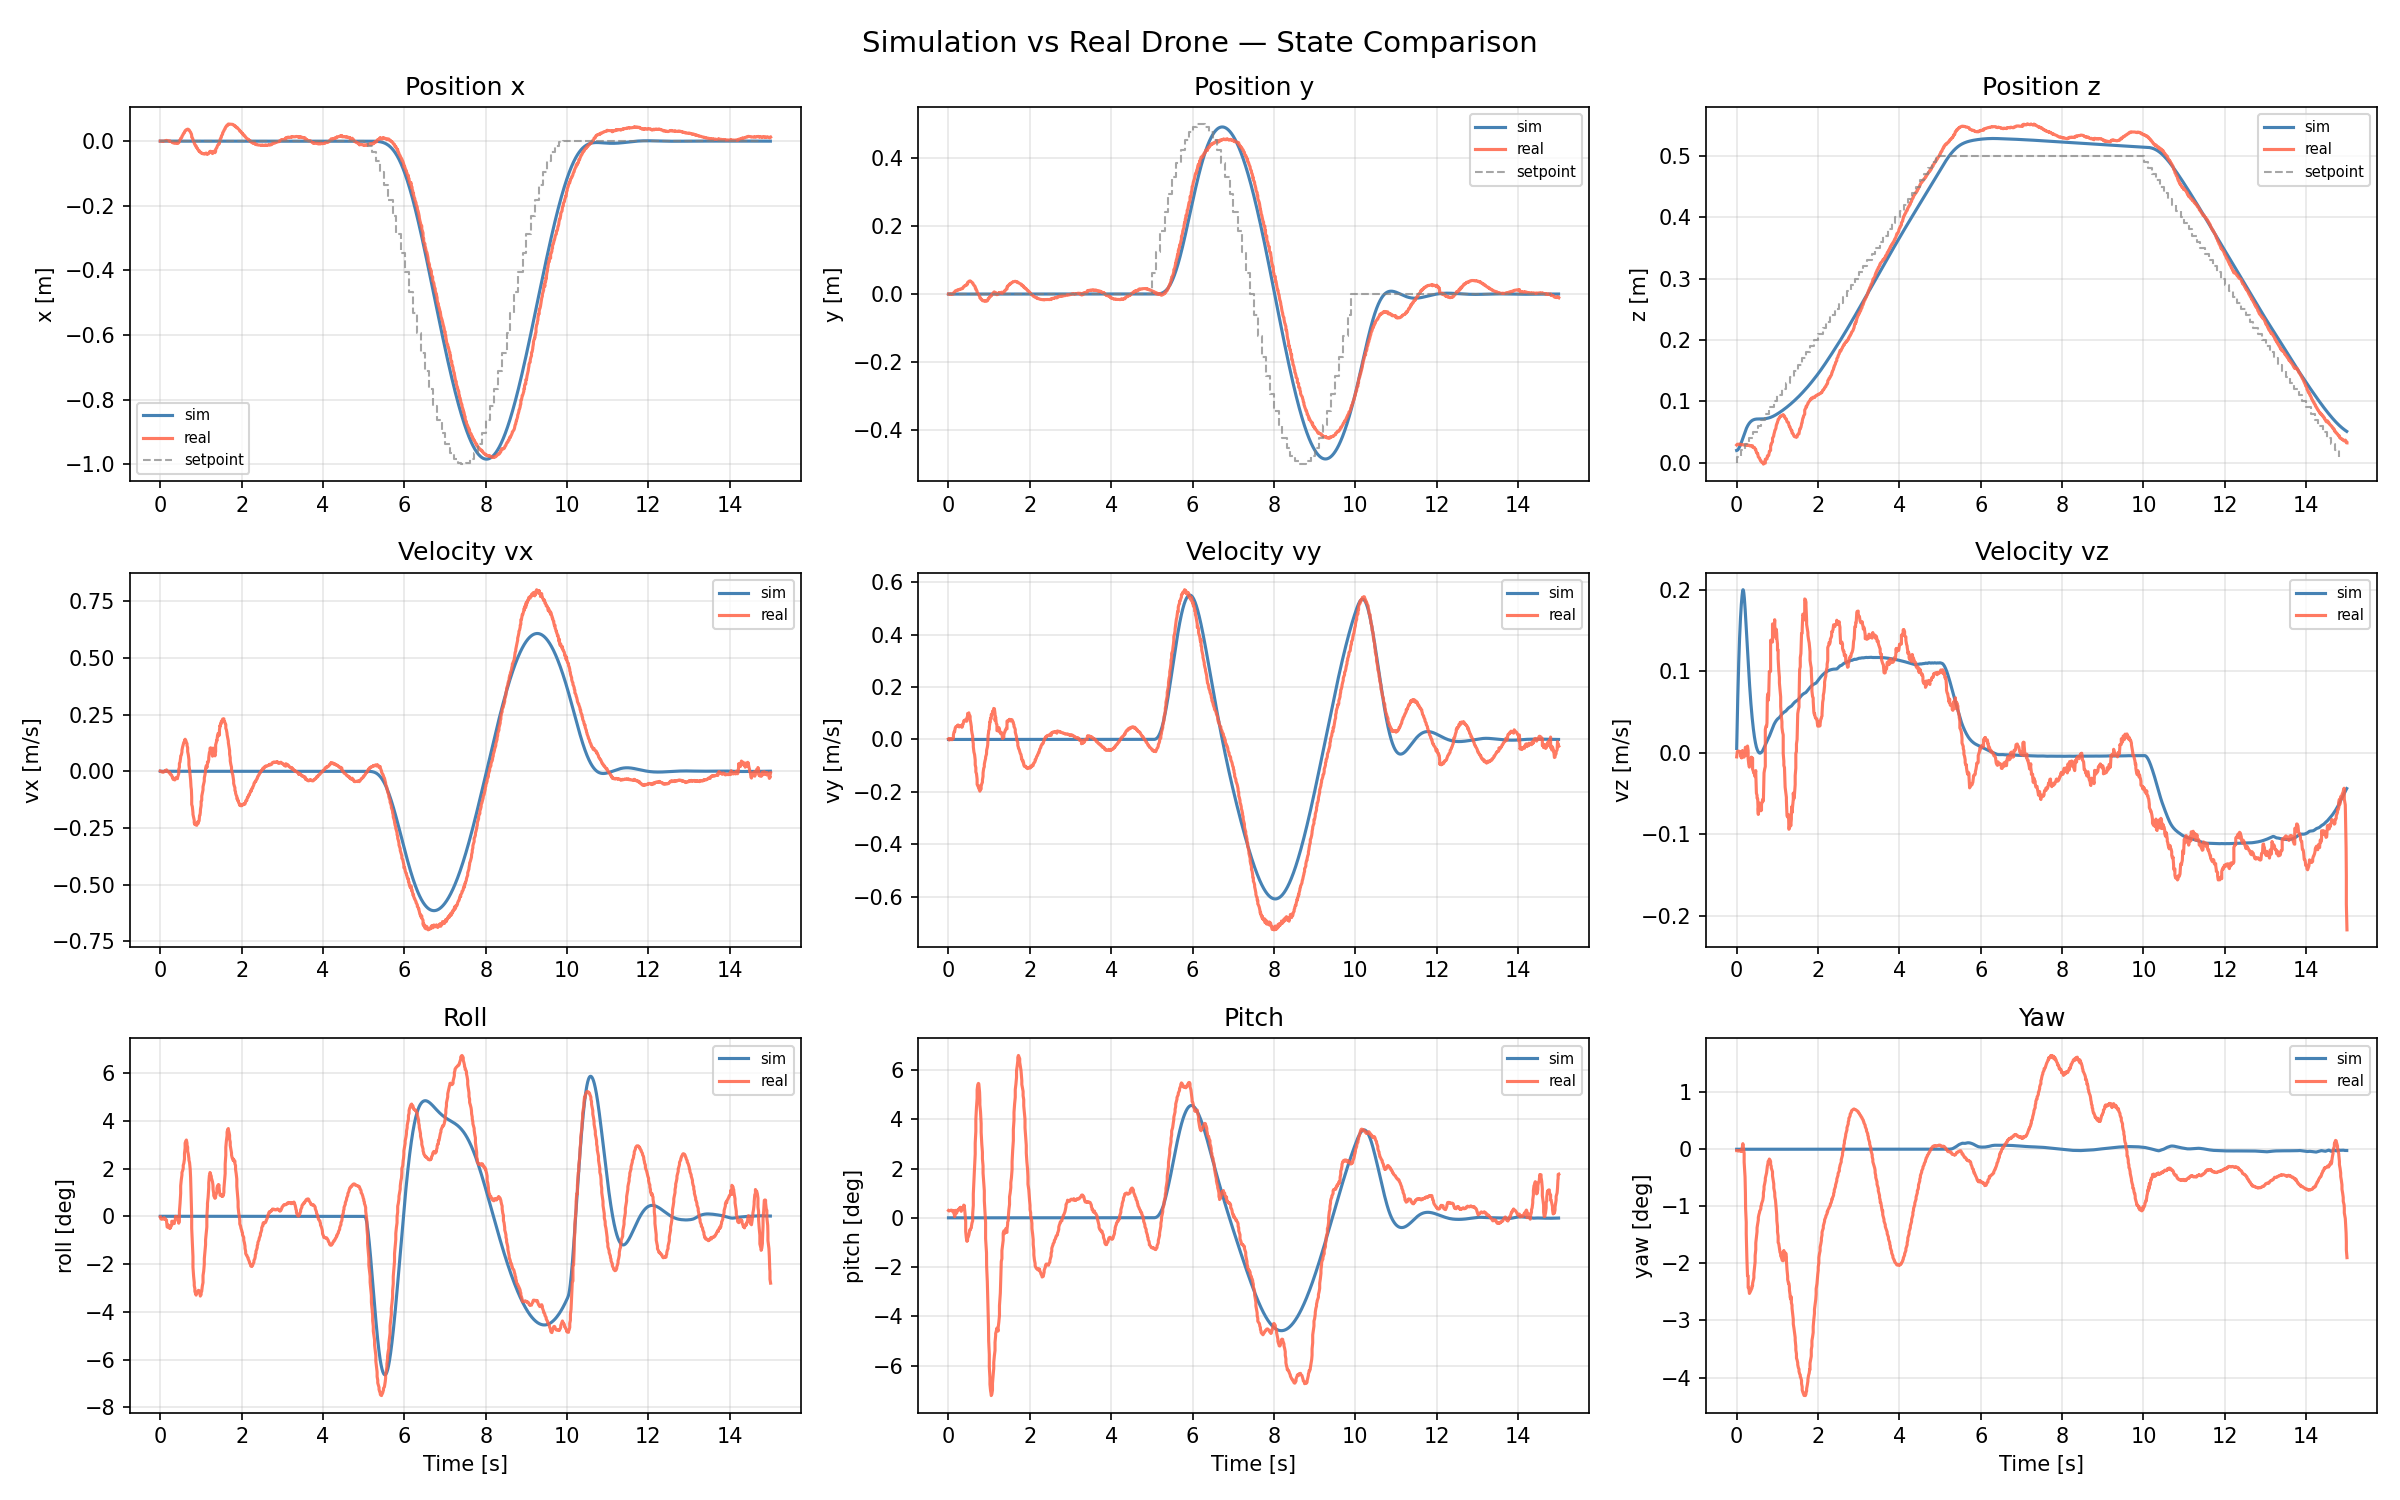
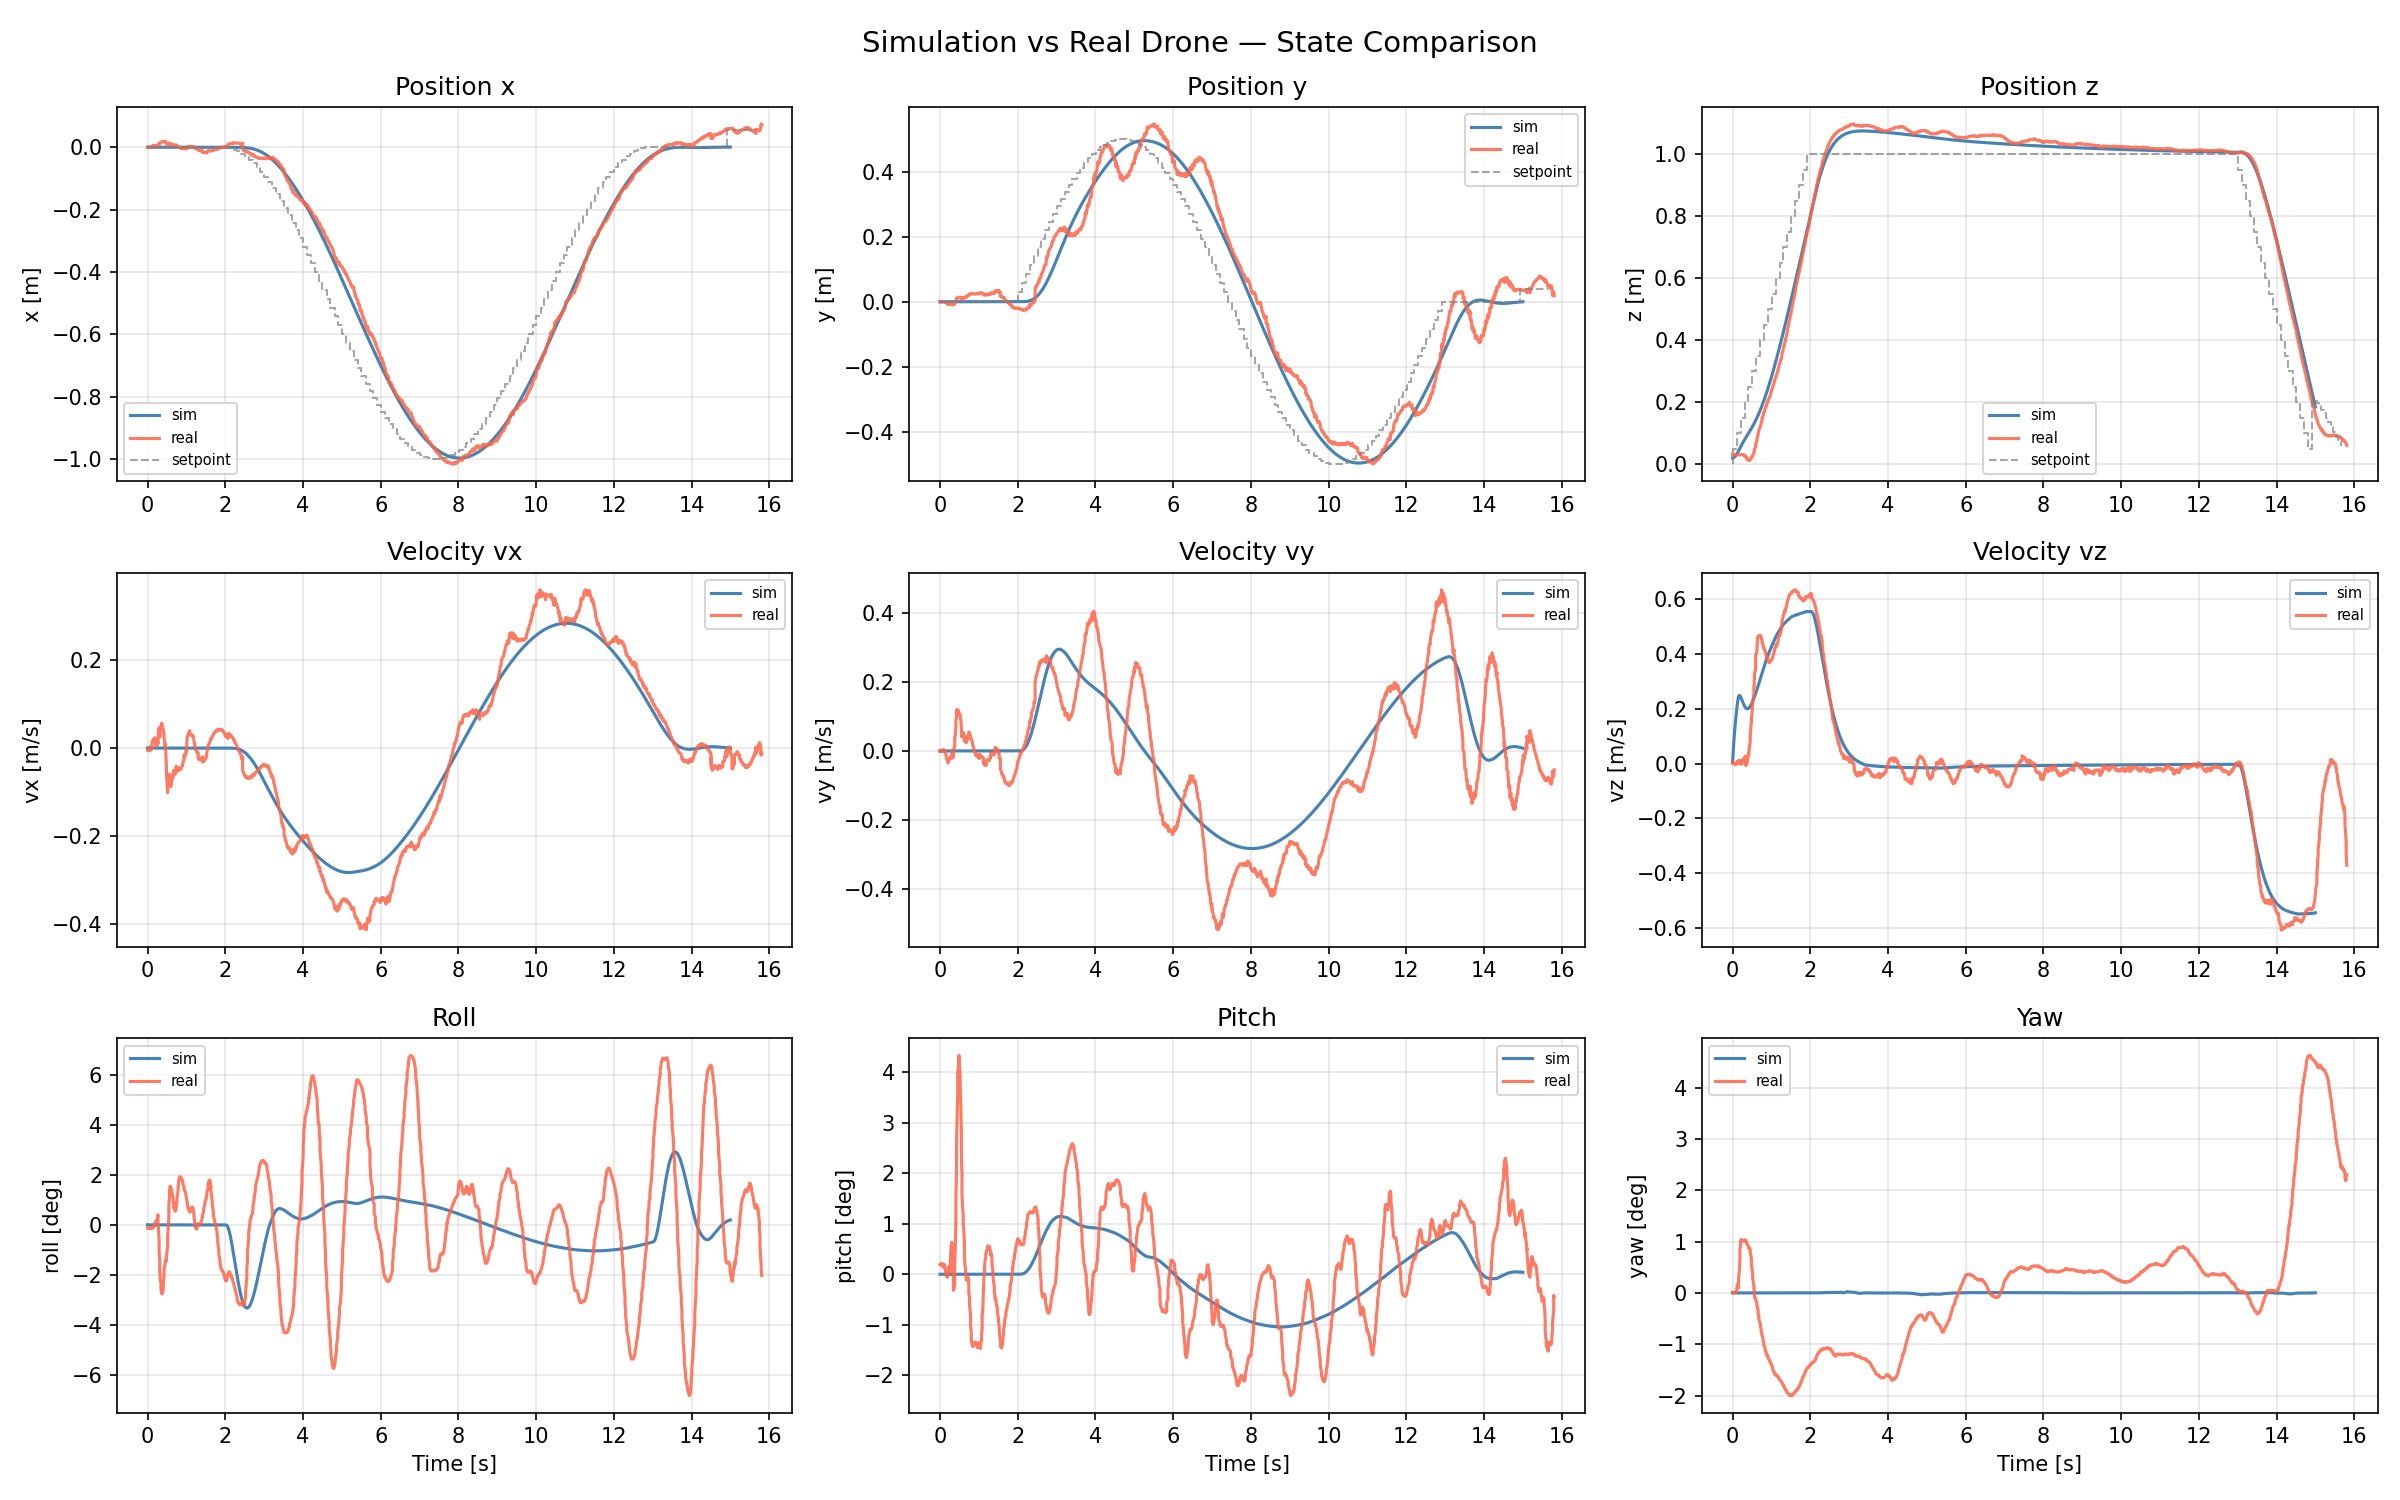
faster takeoff for flowdeck and higher setpoint z for flowdeck

diff --git a/cf_firmware_pid_sim.py b/cf_firmware_pid_sim.py
@@ -858,7 +858,7 @@ def generate_trajectory(ctrl_freq, duration_sec, hover_height=0.5, radius=0.5):
     n_steps = int(ctrl_freq * duration_sec)
     waypoints = np.zeros((n_steps, 4))
 
-    takeoff_time   = 5    # seconds
+    takeoff_time   = 2    # seconds
     circle_time    = duration_sec - 2 * takeoff_time   # seconds of circling
 
     takeoff_steps  = int(ctrl_freq * takeoff_time)
@@ -1514,8 +1514,8 @@ MODES:
                         help='Control mode (default: sim)')
     parser.add_argument('--duration', default=15, type=float,
                         help='Flight duration in seconds (default: 15)')
-    parser.add_argument('--height', default=0.5, type=float,
-                        help='Hover height in meters (default: 0.5)')
+    parser.add_argument('--height', default=1.0, type=float,
+                        help='Hover height in meters (default: 1.0)')
     parser.add_argument('--radius', default=0.5, type=float,
                         help='Circle radius in meters (default: 0.5)')
     parser.add_argument('--gui', default=True, type=lambda x: x.lower() == 'true',
